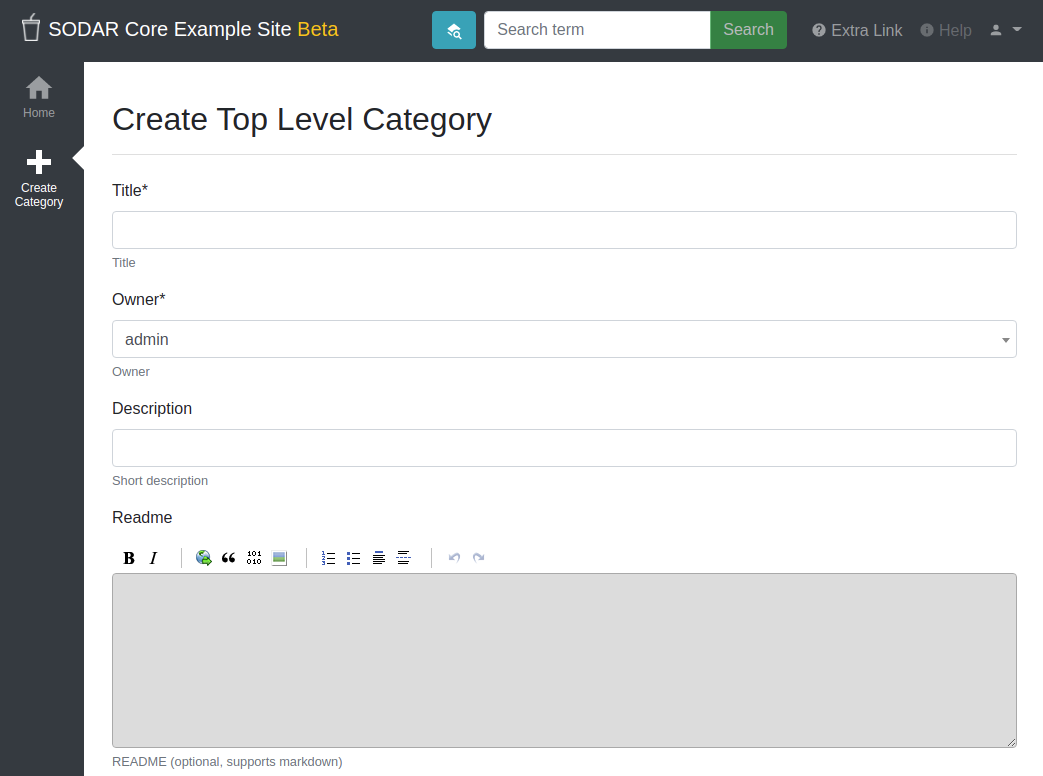
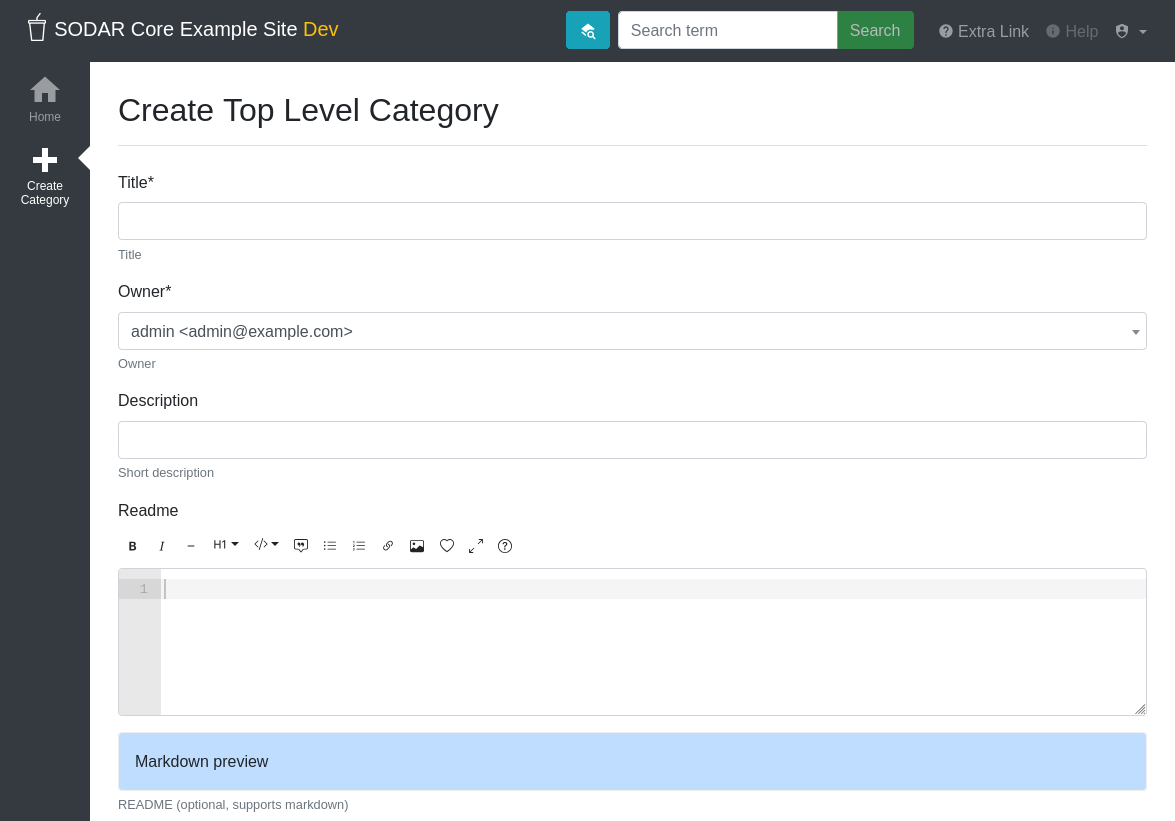
fix layout issues, update docs screenshots (#2021, #2042)

Changed region(s): [[0.0, 0.0, 1.0, 1.0], [0.9511, 0.4021, 0.9818, 0.433], [0.3988, 0.6495, 0.4295, 0.6804]]

diff --git a/projectroles/static/projectroles/css/projectroles.css b/projectroles/static/projectroles/css/projectroles.css
@@ -101,7 +101,13 @@ html,
 
 nav.sodar-base-navbar {
   padding-left: 28px;
-  padding-right: 38px;
+  padding-right: 42px;
+}
+/* HACK: Fix invalid padding in Chrome caused by BS4 dropdowns and overflow-y */
+@supports (-moz-appearance: none) {
+  nav.sodar-base-navbar {
+    padding-right: 28px;
+  }
 }
 
 nav.sodar-base-navbar ul li.nav-item {
@@ -537,22 +543,23 @@ a.sodar-pr-btn-copy-secret i {
   word-break: break-word;
 }
 
-.sodar-pr-project-header-btn {
+#sodar-pr-sidebar-alt-btn {
+  margin-right: 12px;
+  z-index: 1100;
+}
+
+.sodar-pr-content-header-btn {
+  line-height: 16px;
   height: 30px;
   font-size: 100%;
 }
 
-.sodar-pr-project-header-btn a {
+.sodar-pr-content-header-btn a {
   line-height: 22px;
 }
 
-.sodar-pr-project-header-btn button svg {
+.sodar-pr-content-header-btn button svg {
   margin-top: 2px !important;
-}
-
-#sodar-pr-sidebar-alt-btn {
-  margin-right: 12px;
-  z-index: 1100;
 }
 
 #sodar-pr-project-ops-btn {

diff --git a/projectroles/templates/projectroles/_project_list.html b/projectroles/templates/projectroles/_project_list.html
@@ -5,10 +5,11 @@
   <div class="card-header">
     <h4>
       {% if other_user %}
-        <i class="iconify" data-icon="mdi:account-supervisor"></i>
         {% if request.user.is_superuser %}
-          {{ other_user.username }}'s
+          <i class="iconify" data-icon="mdi:earth"></i>
+          User
         {% elif request.user.is_authenticated %}
+          <i class="iconify" data-icon="mdi:account-supervisor"></i>
           Mutual
         {% endif %}
       {% elif not parent %}

diff --git a/projectroles/templates/projectroles/_project_nav_btn.html b/projectroles/templates/projectroles/_project_nav_btn.html
@@ -6,7 +6,7 @@
 {% get_django_setting 'PROJECTROLES_DISABLE_CATEGORIES' as disable_categories %}
 {% has_perm 'projectroles.view_project_roles' request.user project as can_view_roles %}
 
-<div class="btn-group sodar-pr-project-header-btn pull-left collapse"
+<div class="btn-group sodar-pr-content-header-btn pull-left collapse"
      role="group"
      id="sodar-pr-sidebar-alt-btn">
   <button class="btn btn-secondary dropdown-toggle btn-sm"

diff --git a/userprofile/templates/userprofile/detail.html b/userprofile/templates/userprofile/detail.html
@@ -39,7 +39,7 @@
   </div>
   {% if view.kwargs.user and request.META.HTTP_REFERER %}
     <a role="button"
-       class="btn btn-secondary sodar-pr-project-header-btn pt-1 ml-auto pull-right"
+       class="btn btn-secondary sodar-pr-content-header-btn ml-auto"
        id="sodar-up-detail-back-btn"
        href="{{ request.META.HTTP_REFERER }}">
       <i class="iconify" data-icon="mdi:arrow-left-circle"></i> Back

diff --git a/userprofile/templates/userprofile/_user_detail.html b/userprofile/templates/userprofile/_user_detail.html
@@ -28,7 +28,7 @@
         <dt class="col-md-2">Full Name</dt>
         <dd class="col-md-10">{{ user.get_full_name }}</dd>
       {% endif %}
-      <dt class="col-md-2">Username</dt>
+      <dt class="col-md-2">User Name</dt>
       <dd class="col-md-10">{{ user.username }}</dd>
       {% if user.email %}
         <dt class="col-md-2">Email</dt>

diff --git a/projectroles/templates/projectroles/_project_ops_btn.html b/projectroles/templates/projectroles/_project_ops_btn.html
@@ -5,7 +5,7 @@
 {% get_display_name project.type title=True as p_title %}
 {% get_full_url request '' as base_url %}
 
-<div class="btn-group sodar-pr-project-header-btn ml-1"
+<div class="btn-group sodar-pr-content-header-btn ml-1"
      role="group"
      id="sodar-pr-project-ops-btn"
      title="{{ p_title }} Operations">

diff --git a/docs/source/app_projectroles_usage.rst b/docs/source/app_projectroles_usage.rst
@@ -35,7 +35,7 @@ provider.
 
 .. figure:: _static/app_projectroles/sodar_login.png
     :align: center
-    :scale: 75%
+    :scale: 80%
 
     SODAR Core login form
 
@@ -66,7 +66,7 @@ the general view of your site is split into the following elements:
 
 .. figure:: _static/app_projectroles/sodar_user_dropdown.png
     :align: center
-    :scale: 75%
+    :scale: 80%
 
     User dropdown
 
@@ -111,7 +111,7 @@ the category and its possible subcategories.
 
 .. figure:: _static/app_projectroles/sodar_project_detail.png
     :align: center
-    :scale: 60%
+    :scale: 55%
 
     Project detail view
 
@@ -175,7 +175,7 @@ may be modified later.
 
 .. figure:: _static/app_projectroles/sodar_category_create.png
     :align: center
-    :scale: 60%
+    :scale: 55%
 
     Category/project creation form
 
@@ -204,7 +204,7 @@ the target category or superuser status.
 
 .. figure:: _static/app_projectroles/sodar_project_update.png
     :align: center
-    :scale: 60%
+    :scale: 55%
 
     Category/project updating form
 
@@ -340,7 +340,7 @@ the project update view, now labeled :guilabel:`Unarchive`.
 
 .. figure:: _static/app_projectroles/sodar_archive.png
     :align: center
-    :scale: 65%
+    :scale: 60%
 
     Archived project and unarchive button in project update view
 
@@ -363,7 +363,7 @@ more information, see :ref:`app_projectroles_usage_remote`.
 
 .. figure:: _static/app_projectroles/sodar_project_delete.png
     :align: center
-    :scale: 65%
+    :scale: 60%
 
     Project deletion confirmation form
 
@@ -520,7 +520,7 @@ project creation and updating view.
 
 .. figure:: _static/app_projectroles/site_app_settings.png
     :align: center
-    :scale: 60%
+    :scale: 55%
 
     Site app settings view
 
@@ -570,7 +570,7 @@ based site.
 
 .. figure:: _static/app_projectroles/sodar_remote_sites.png
     :align: center
-    :scale: 60%
+    :scale: 55%
 
     Remote site list in source mode
 
@@ -630,7 +630,7 @@ target site will sync the data by sending a request to the source site.
 
 .. figure:: _static/app_projectroles/sodar_remote_projects.png
     :align: center
-    :scale: 50%
+    :scale: 55%
 
     Remote project list viewed as a source site
 
@@ -718,7 +718,7 @@ such.
 
 .. figure:: _static/app_projectroles/sodar_remote_project_links.png
     :align: center
-    :scale: 75%
+    :scale: 60%
 
     Remote project links in the project detail view
 

diff --git a/docs/source/for_the_impatient.rst b/docs/source/for_the_impatient.rst
@@ -100,7 +100,7 @@ You should see the following:
 
 .. figure:: _static/for_the_impatient/login.png
     :align: center
-    :scale: 50%
+    :scale: 45%
 
     Login view
 
@@ -109,7 +109,7 @@ your home view:
 
 .. figure:: _static/for_the_impatient/project_list.png
     :align: center
-    :scale: 50%
+    :scale: 60%
 
     Project list
 
@@ -136,9 +136,9 @@ category. Next, click the :guilabel:`Create a Project or Category` link to
 create an "Example Project" within. The project details view should look as
 follows.
 
-.. figure:: _static/for_the_impatient/project_details.png
+.. figure:: _static/for_the_impatient/project_detail.png
     :align: center
-    :scale: 50%
+    :scale: 55%
 
     Project details view
 
@@ -161,7 +161,7 @@ uploading a few files, you will see a trace of actions in the Timeline app:
 
 .. figure:: _static/for_the_impatient/timeline.png
     :align: center
-    :scale: 50%
+    :scale: 55%
 
     Timeline app
 

diff --git a/docs/source/app_filesfolders_usage.rst b/docs/source/app_filesfolders_usage.rst
@@ -26,7 +26,7 @@ app. Note that overwriting of files is not currently allowed.
 
 .. figure:: _static/app_filesfolders/sodar_filesfolders.png
     :align: center
-    :figwidth: 100%
+    :scale: 55%
 
     Filesfolders main view
 

diff --git a/docs/source/app_appalerts.rst b/docs/source/app_appalerts.rst
@@ -119,7 +119,7 @@ appear on the top bar of the site.
 
 .. figure:: _static/app_appalerts/app_alerts.png
     :align: center
-    :scale: 50%
+    :scale: 55%
 
     App alert list and title bar notification
 

diff --git a/docs/source/app_siteinfo.rst b/docs/source/app_siteinfo.rst
@@ -92,7 +92,7 @@ Settings
 
 .. figure:: _static/app_siteinfo/site_info.png
     :align: center
-    :scale: 60%
+    :scale: 55%
 
     Siteinfo application with the General tab selected
 

diff --git a/docs/source/app_timeline_usage.rst b/docs/source/app_timeline_usage.rst
@@ -24,7 +24,7 @@ All Timeline Events
 
 .. figure:: _static/app_timeline/sodar_timeline.png
     :align: center
-    :scale: 60%
+    :scale: 55%
 
     Timeline project event list view
 
